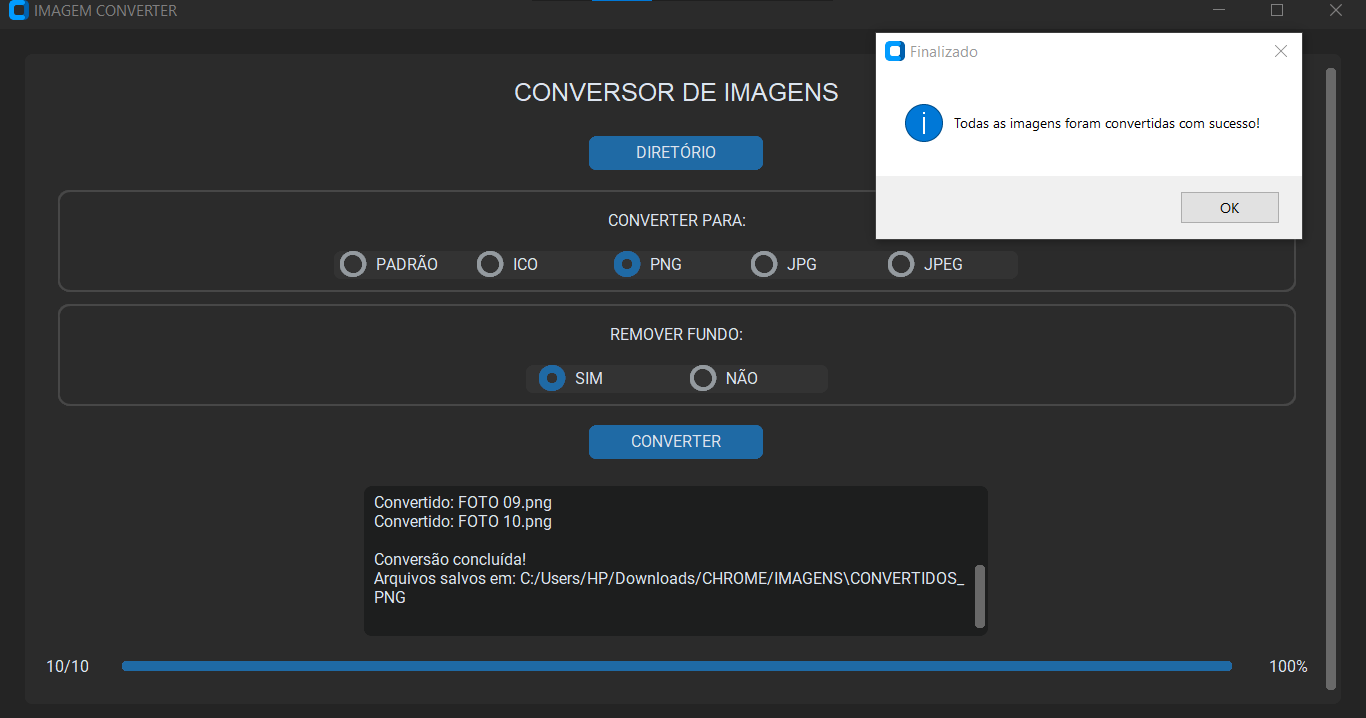
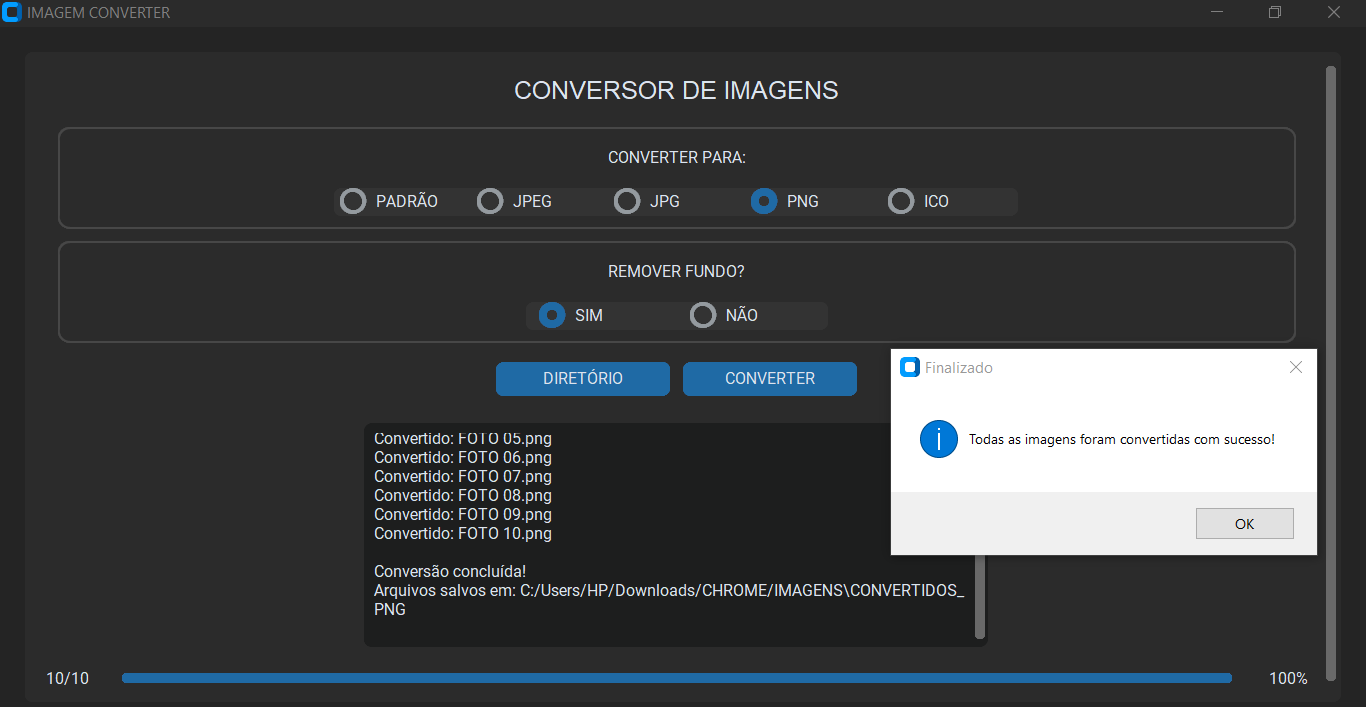
VERSÃO 1.3.1000

diff --git a/CODIGO/CODIGO.py b/CODIGO/CODIGO.py
@@ -40,9 +40,6 @@ class ImageConverterApp:
 
         ctk.CTkLabel(self.scrollable_frame, text="CONVERSOR DE IMAGENS", font=("Arial", 20)).pack(pady=10)
 
-        self.select_button = ctk.CTkButton(self.scrollable_frame, text="DIRETÓRIO", command=self.select_directory)
-        self.select_button.pack(pady=10)
-
         self.format_container = ctk.CTkFrame(self.scrollable_frame, border_width=2, corner_radius=10)
         self.format_container.pack(pady=5, padx=20, fill="x")
 
@@ -50,24 +47,30 @@ class ImageConverterApp:
         self.format_frame = ctk.CTkFrame(self.format_container)
         self.format_frame.pack(pady=10)
 
-        options = ["PADRÃO", "ICO", "PNG", "JPG", "JPEG"]
+        options = ["PADRÃO", "JPEG", "JPG", "PNG", "ICO"]
         for option in options:
             ctk.CTkRadioButton(self.format_frame, text=option, variable=self.format_var, value=option, command=self.update_convert_button_state).pack(side="left", padx=5)
 
         self.remove_bg_container = ctk.CTkFrame(self.scrollable_frame, border_width=2, corner_radius=10)
         self.remove_bg_container.pack(pady=5, padx=20, fill="x")
 
-        ctk.CTkLabel(self.remove_bg_container, text="REMOVER FUNDO:").pack(pady=(10, 0))
+        ctk.CTkLabel(self.remove_bg_container, text="REMOVER FUNDO?").pack(pady=(10, 0))
         self.remove_bg_frame = ctk.CTkFrame(self.remove_bg_container)
         self.remove_bg_frame.pack(pady=10)
 
         ctk.CTkRadioButton(self.remove_bg_frame, text="SIM", variable=self.remove_bg_var, value="SIM", command=self.update_convert_button_state).pack(side="left", padx=10)
         ctk.CTkRadioButton(self.remove_bg_frame, text="NÃO", variable=self.remove_bg_var, value="NÃO", command=self.update_convert_button_state).pack(side="left", padx=10)
 
-        self.convert_button = ctk.CTkButton(self.scrollable_frame, text="CONVERTER", command=self.start_conversion, state="disabled")
-        self.convert_button.pack(pady=10)
+        self.button_frame = ctk.CTkFrame(self.scrollable_frame)
+        self.button_frame.pack(pady=10)
 
-        self.status_textbox = ctk.CTkTextbox(self.scrollable_frame, width=500, height=120)
+        self.select_button = ctk.CTkButton(self.button_frame, text="DIRETÓRIO", command=self.select_directory)
+        self.select_button.pack(side="left", padx=5)
+
+        self.convert_button = ctk.CTkButton(self.button_frame, text="CONVERTER", command=self.start_conversion, state="disabled")
+        self.convert_button.pack(side="left", padx=5)
+
+        self.status_textbox = ctk.CTkTextbox(self.scrollable_frame, width=500, height=180)
         self.status_textbox.pack(pady=10)
         self.status_textbox.configure(state='disabled')
 
@@ -115,7 +118,7 @@ class ImageConverterApp:
         output_dir = os.path.join(input_dir, f"CONVERTIDOS_{output_format or 'PADRAO'}")
         os.makedirs(output_dir, exist_ok=True)
 
-        image_extensions = ['*.png', '*.jpg', '*.jpeg', '*.bmp', '*.webp']
+        image_extensions = ['*.jpg', '*.jpeg', '*.png', '*.ico', '*.bmp', '*.webp']
         image_files = []
 
         for ext in image_extensions:

diff --git a/README.md b/README.md
@@ -1,5 +1,5 @@
 # IMAGEM CONVERTER
-👨🏫USE ESTE APP PARA CONVERTER SUAS FOTOS EM DIVERSOS FORMATOS E/OU REMOVER O FUNDO DAS SUAS IMAGENS.
+👨🏫USE ESTE APP PARA CONVERTER SUAS FOTOS EM DIVERSOS FORMATOS (PARA: "PADRÃO", "JPEG", "JPG", "PNG" E "ICO") E/OU REMOVER O FUNDO DAS SUAS IMAGENS.
 
 <img src="./IMAGENS/FOTO_01.png" align="center" width="500"> <br>
 <img src="./IMAGENS/FOTO_02.png" align="center" width="500"> <br>
@@ -13,9 +13,9 @@ Este aplicativo é uma ferramenta prática para converter múltiplas imagens em 
 
 * Converte as imagens para os seguintes formatos:
   * **PADRÃO**: Mantém o formato original.
-  * **ICO**: Ícones.
+  * **JPEG/JPG**: Formatos populares, sem suporte à transparência.
   * **PNG**: Suporta transparência.
-  * **JPG / JPEG**: Formatos populares, sem suporte à transparência.
+  * **ICO**: Ícones.
 
 * **Remoção de Fundo (Opcional):**
   * **SIM**: Remove o fundo da imagem automaticamente.
@@ -53,15 +53,15 @@ Este aplicativo é uma ferramenta prática para converter múltiplas imagens em 
    * Clique no botão **DIRETÓRIO** para abrir uma caixa de diálogo que permite escolher uma **pasta com imagens** do seu sistema de arquivos. O caminho do diretório selecionado será exibido no aplicativo.
 
 4. **Escolher o Formato de Conversão**:
-   * Em **CONVERTER PARA**, escolha o formato desejado para as imagens convertidas. As opções disponíveis são:
+   * Em **CONVERTER PARA:**, escolha o formato desejado para as imagens convertidas. As opções disponíveis são:
 
      * **PADRÃO**: Mantém o formato original.
-     * **ICO**: Converte para formato de ícone.
+     * **JPEG/JPG**: Converte para formato `JPEG` ou `JPG`.
      * **PNG**: Converte para formato PNG.
-     * **JPG/JPEG**: Converte para formato JPG ou JPEG.
+     * **ICO**: Converte para formato de ícone.
 
 5. **Escolher a Remoção de Fundo**:
-   * Em **REMOVER FUNDO**, selecione **SIM** se desejar remover o fundo das imagens, ou **NÃO** se preferir manter o fundo original.
+   * Em **REMOVER FUNDO?**, selecione **SIM** se desejar remover o fundo das imagens, ou **NÃO** se preferir manter o fundo original.
 
 6. **Converter as Imagens**:
    * Clique no botão **CONVERTER** para processar todas as imagens do diretório conforme as seleções feitas. O botão **CONVERTER** será habilitado ou desabilitado automaticamente com base nas opções escolhidas.

diff --git a/UPDATES.md b/UPDATES.md
@@ -8,6 +8,7 @@
 * ✅Adicionada barra de progresso e melhorias no status, que agora exibe o diretório, progresso e pasta final da conversão.
 * ✅Agora o usuário seleciona uma pasta em vez de arquivos individuais, e as imagens convertidas são salvas automaticamente em uma subpasta `CONVERTIDOS_<FORMATO>`.
 * ✅O botão "SALVAR" foi renomeado para "CONVERTER".
+* ✅Os botões "DIRETÓRIO" e "CONVERTER" agora estão lado a lado.
 * ✅Adicionados um campo de status e uma barra de progresso para exibir o diretório selecionado e o andamento da conversão em tempo real.
 * ✅A interface inicia com zoom total e suporte a rolagem vertical.
 * ✅O layout foi reorganizado, com os campos "CONVERTER PARA" e "REMOVER FUNDO" em containers próprios, e o `footer` foi removido.
